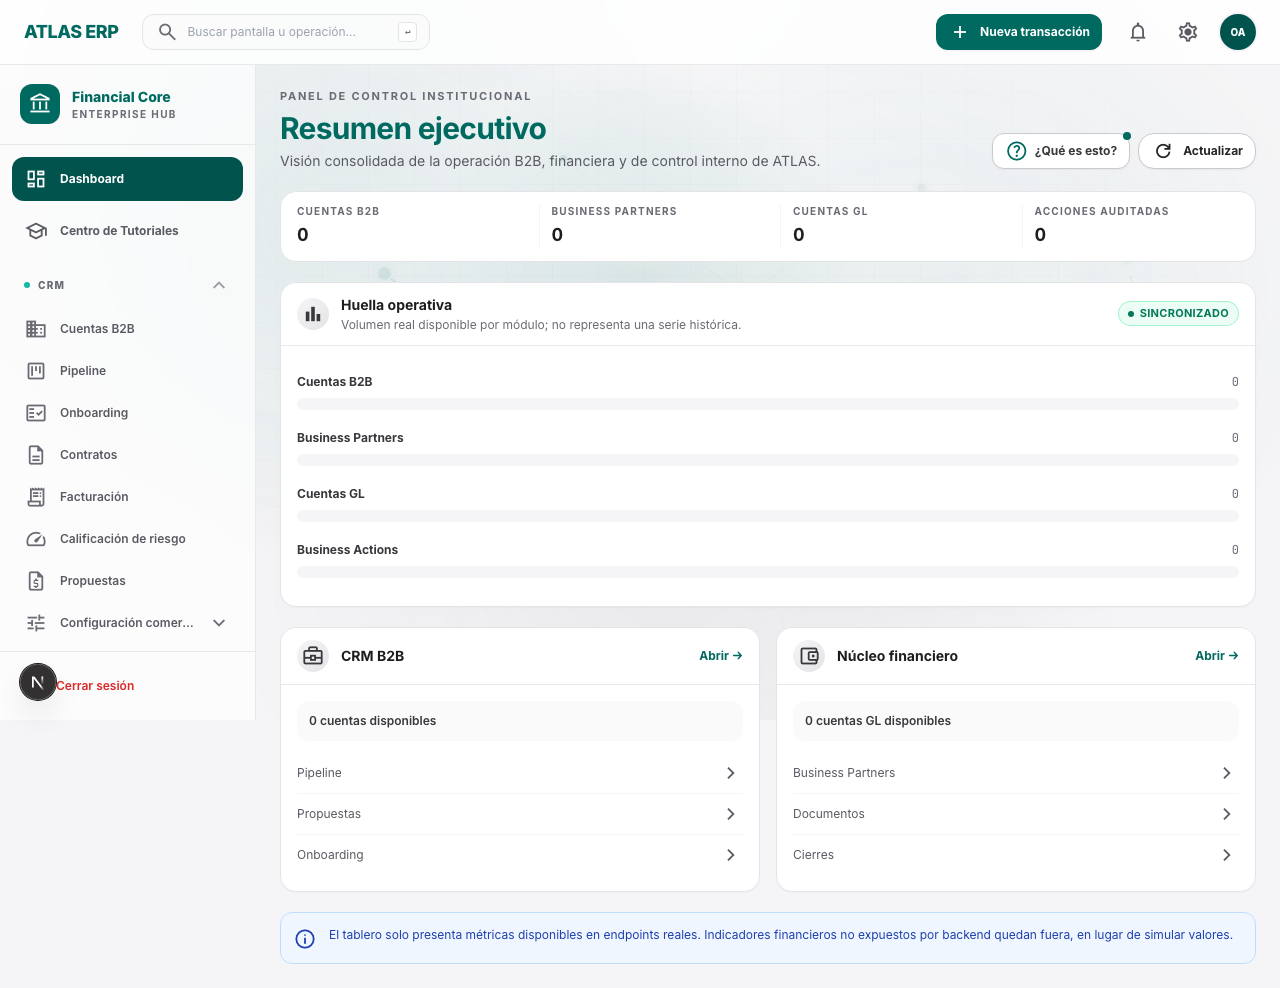
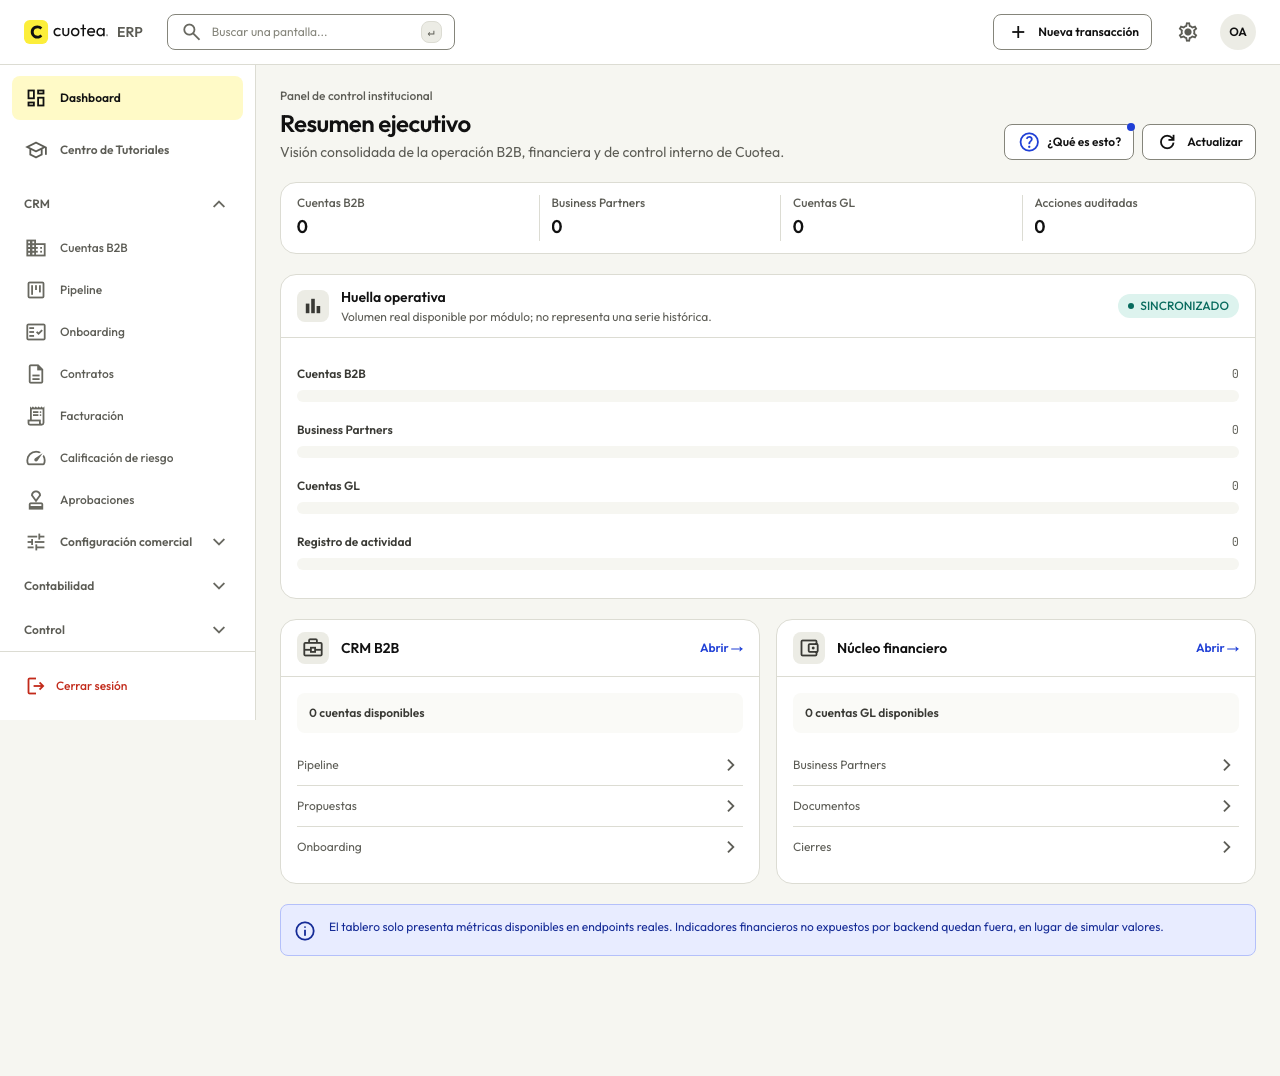
feat(tema): barrido visual de las 66 páginas en dos temas, tema por defecto según el sistema y evidencia

diff --git a/components/atlas/SelectorDeTema.tsx b/components/atlas/SelectorDeTema.tsx
@@ -18,7 +18,7 @@ const OPCIONES: ReadonlyArray<{ valor: PreferenciaDeTema; etiqueta: string; icon
  * lee tras montar: en el servidor no hay almacenamiento, y pintar una opción marcada que luego
  * cambia sería una discrepancia de hidratación.
  */
-export function SelectorDeTema({ className }: Readonly<{ className?: string }>) {
+export function SelectorDeTema({ className, soloIconos = false }: Readonly<{ className?: string; soloIconos?: boolean }>) {
   const [preferencia, setPreferencia] = useState<PreferenciaDeTema | null>(null);
 
   useEffect(() => setPreferencia(leerPreferencia()), []);
@@ -48,17 +48,20 @@ export function SelectorDeTema({ className }: Readonly<{ className?: string }>) 
             role="radio"
             aria-checked={elegida}
             data-testid={`tema-${opcion.valor}`}
+            aria-label={soloIconos ? opcion.etiqueta : undefined}
+            title={soloIconos ? opcion.etiqueta : undefined}
             onClick={() => {
               guardarPreferencia(opcion.valor);
               setPreferencia(opcion.valor);
             }}
             className={cn(
               'atlas-tap inline-flex h-8 items-center gap-1.5 rounded px-2.5 text-xs font-medium transition-colors',
+              soloIconos && 'flex-1 justify-center px-0',
               elegida ? 'bg-brand-soft text-slate-900' : 'text-slate-600 hover:bg-surface-sunken hover:text-slate-900',
             )}
           >
             <Icon name={opcion.icono} className="text-[16px]" />
-            {opcion.etiqueta}
+            {soloIconos ? null : opcion.etiqueta}
           </button>
         );
       })}

diff --git a/components/layout/MerchantPortalShell.tsx b/components/layout/MerchantPortalShell.tsx
@@ -92,7 +92,7 @@ export function MerchantPortalShell({ children }: Readonly<{ children: React.Rea
         <div className="custom-scrollbar min-h-0 flex-1 overflow-y-auto overscroll-contain p-3">
           <p className="mb-2 px-3 text-xs font-medium text-slate-600">Operación</p>
           <PortalNav pathname={pathname} onNavigate={() => setNavOpen(false)} />
-          <div className="mt-6 px-3"><p className="mb-1.5 text-xs font-medium text-slate-600">Apariencia</p><SelectorDeTema /></div>
+          <div className="mt-6 px-3"><p className="mb-1.5 text-xs font-medium text-slate-600">Apariencia</p><SelectorDeTema soloIconos className="w-full" /></div>
         </div>
       </NavDrawer>
 
@@ -100,7 +100,7 @@ export function MerchantPortalShell({ children }: Readonly<{ children: React.Rea
         <aside className="hidden border-r border-slate-200 bg-white p-4 lg:block">
           <p className="mb-3 px-3 text-xs font-medium text-slate-600">Operación</p>
           <PortalNav pathname={pathname} />
-          <div className="mt-6 px-3"><p className="mb-1.5 text-xs font-medium text-slate-600">Apariencia</p><SelectorDeTema /></div>
+          <div className="mt-6 px-3"><p className="mb-1.5 text-xs font-medium text-slate-600">Apariencia</p><SelectorDeTema soloIconos className="w-full" /></div>
         </aside>
         {/* `pb-24`: deja sitio al botón flotante del asistente para que no tape la última fila. */}
         <main className="min-w-0 p-3 pb-40 sm:p-4 sm:pb-40 md:p-6 md:pb-40 lg:pb-36 xl:p-8 xl:pb-36">{children}</main>

diff --git a/e2e/tema.spec.ts b/e2e/tema.spec.ts
@@ -8,10 +8,15 @@ import { expect, test } from '@playwright/test';
  */
 const CANVAS = { claro: 'rgb(246, 246, 241)', oscuro: 'rgb(17, 17, 17)' };
 
-test('sin preferencia guardada el portal abre en claro', async ({ page }) => {
-  await page.goto('/login/interno');
-  await expect(page.locator('html')).toHaveAttribute('data-theme', 'light');
-  expect(await page.evaluate(() => getComputedStyle(document.body).backgroundColor)).toBe(CANVAS.claro);
+test('sin preferencia guardada sigue al sistema', async ({ browser }) => {
+  for (const [esquema, tema, fondo] of [['light', 'light', CANVAS.claro], ['dark', 'dark', CANVAS.oscuro]] as const) {
+    const contexto = await browser.newContext({ colorScheme: esquema });
+    const page = await contexto.newPage();
+    await page.goto('/login/interno');
+    await expect(page.locator('html')).toHaveAttribute('data-theme', tema);
+    expect(await page.evaluate(() => getComputedStyle(document.body).backgroundColor)).toBe(fondo);
+    await contexto.close();
+  }
 });
 
 test('la preferencia guardada se aplica antes de hidratar y cambia la paleta', async ({ page }) => {

diff --git a/lib/tema.ts b/lib/tema.ts
@@ -14,11 +14,8 @@ export type TemaEfectivo = 'light' | 'dark';
 /** Clave nueva de este rediseño. No sustituye a ninguna clave que ya existiera. */
 export const CLAVE_TEMA = 'cuotea-tema';
 
-/**
- * Qué se aplica cuando la persona todavía no eligió.
- * FASE 6 lo cambia a 'system', cuando el tema oscuro ya está repasado pantalla por pantalla.
- */
-export const PREFERENCIA_POR_DEFECTO: PreferenciaDeTema = 'light';
+/** Qué se aplica cuando la persona todavía no eligió: lo que diga el sistema operativo. */
+export const PREFERENCIA_POR_DEFECTO: PreferenciaDeTema = 'system';
 
 const VALIDAS: readonly string[] = ['light', 'dark', 'system'];
 

diff --git a/docs/trabajo/2026-11-10-rediseno-cuotea/REPORTE.md b/docs/trabajo/2026-11-10-rediseno-cuotea/REPORTE.md
@@ -1,0 +1,40 @@
+# Rediseño de Cuotea en el ERP y el portal del comercio (2026-11-10)
+
+Ejecuta `PLAN-02-erp.md` (carpeta `_plan-rediseno-visual-cuotea-2026-11-10`), seis fases, un PR por fase contra `dev`.
+
+| Fase | PR | Qué entregó |
+|---|---|---|
+| 1 | #81 | Tokens en variables CSS (claro y oscuro), Tailwind remapeado, script de tema con nonce, prueba de contraste, acento escrito a mano a tokens |
+| 1b | #83 | Fuentes con `next/font/local` (plan B): la descarga de Google fallaba de forma intermitente en CI |
+| 2 | #82 | Primitivas: botón de marca, campos, píldoras, paneles, diálogos |
+| 3 | #84 | Armazón plano, login con panel amarillo, logo e iconos, conmutador de tema; se retira el fondo ambiental |
+| 4 | #85 | Valores sueltos a tokens, cartel del QR, un amarillo por vista, guardián `check-colores` en `yarn lint` |
+| 5 | #87 | «Cuotea» en todo lo visible |
+| 6 | este PR | Barrido final, tema por defecto «sistema», evidencia |
+
+## Cifras del barrido
+
+`scripts/barrido-visual.mjs`: 64 páginas × 2 temas × 3 anchos = 384 capturas, 0 hallazgos (sin errores de página, sin desbordes horizontales, tema aplicado, ningún texto de menos de 12 px). En la línea de partida (solo claro) había 381 hallazgos.
+Para que `/portal-comercio/facturacion` cargara en el barrido hubo que ampliar el doble de la API (`/portal/scope` y `/partner-onboarding/mine` tienen otra forma que `{ items, total }`); no cambió ninguna pantalla.
+
+## Excepciones del guardián de colores
+
+- `app/tema.css`: es la capa de tema.
+- `lib/coloresImpresos.ts`: un lienzo que se imprime no lee variables CSS y el papel no tiene tema oscuro.
+- `lib/qr.ts`: un QR es negro sobre blanco en cualquier tema.
+- `colores-ok` por línea (5): dos `themeColor` de `app/layout.tsx` (una etiqueta `<meta>` no lee variables) y tres máscaras de recorte del carril en `app/globals.css` (no pintan color).
+
+## Desvíos respecto del plan
+
+- Fuentes: `next/font/local` en lugar de `next/font/google` (ver #83). Sólo el subconjunto latino de Outfit (400-600, variable) y de JetBrains Mono.
+- Fase 4: en `LiveDirectoryScreen`, `CrudDirectory`, `CampaignWizard` y `CampaignDetailModal` los dos botones primarios son alternativas excluyentes; se dejan primarios.
+- Fase 5: `tests/unit/guia-pdf.test.ts` ahora afirma el prefijo `Cuotea-Guia-` del nombre de descarga (el `href` sigue apuntando a `ATLAS-Guia-…pdf`).
+- Fase 6: el conmutador de tema del portal del comercio muestra sólo iconos (con nombre accesible) porque la columna lateral de 220 px recortaba «Sistema».
+
+## Dudas abiertas (de Pablo)
+
+D1 botón secundario (se creó `strong` para el de tinta) · D2 velo de las capas flotantes (tinta al 45 % y 70 %) · D3 iconos Material Symbols aún de Google Fonts · D4 asunto del correo «ATLAS — Tu cuenta fue creada» (lo emite AtlasBackend) · D5 razón social del emisor de la factura · D6 voz de tú en el portal del comercio · D7 guías en PDF (`_herramientas/manuales-pdf`) · D8 radio de tarjeta de marca · D9 `AtlasAssist` huérfano.
+
+## Evidencia
+
+`evidencia/*.jpg`: antes (claro) · después (claro) · después (oscuro), a 1280 px, de seis pantallas. `evidencia/cartel-qr.png`: el cartel del QR con la marca. Las capturas de `docs/visual-evidence/` se regeneraron con las baterías de navegador ya con la marca nueva.
